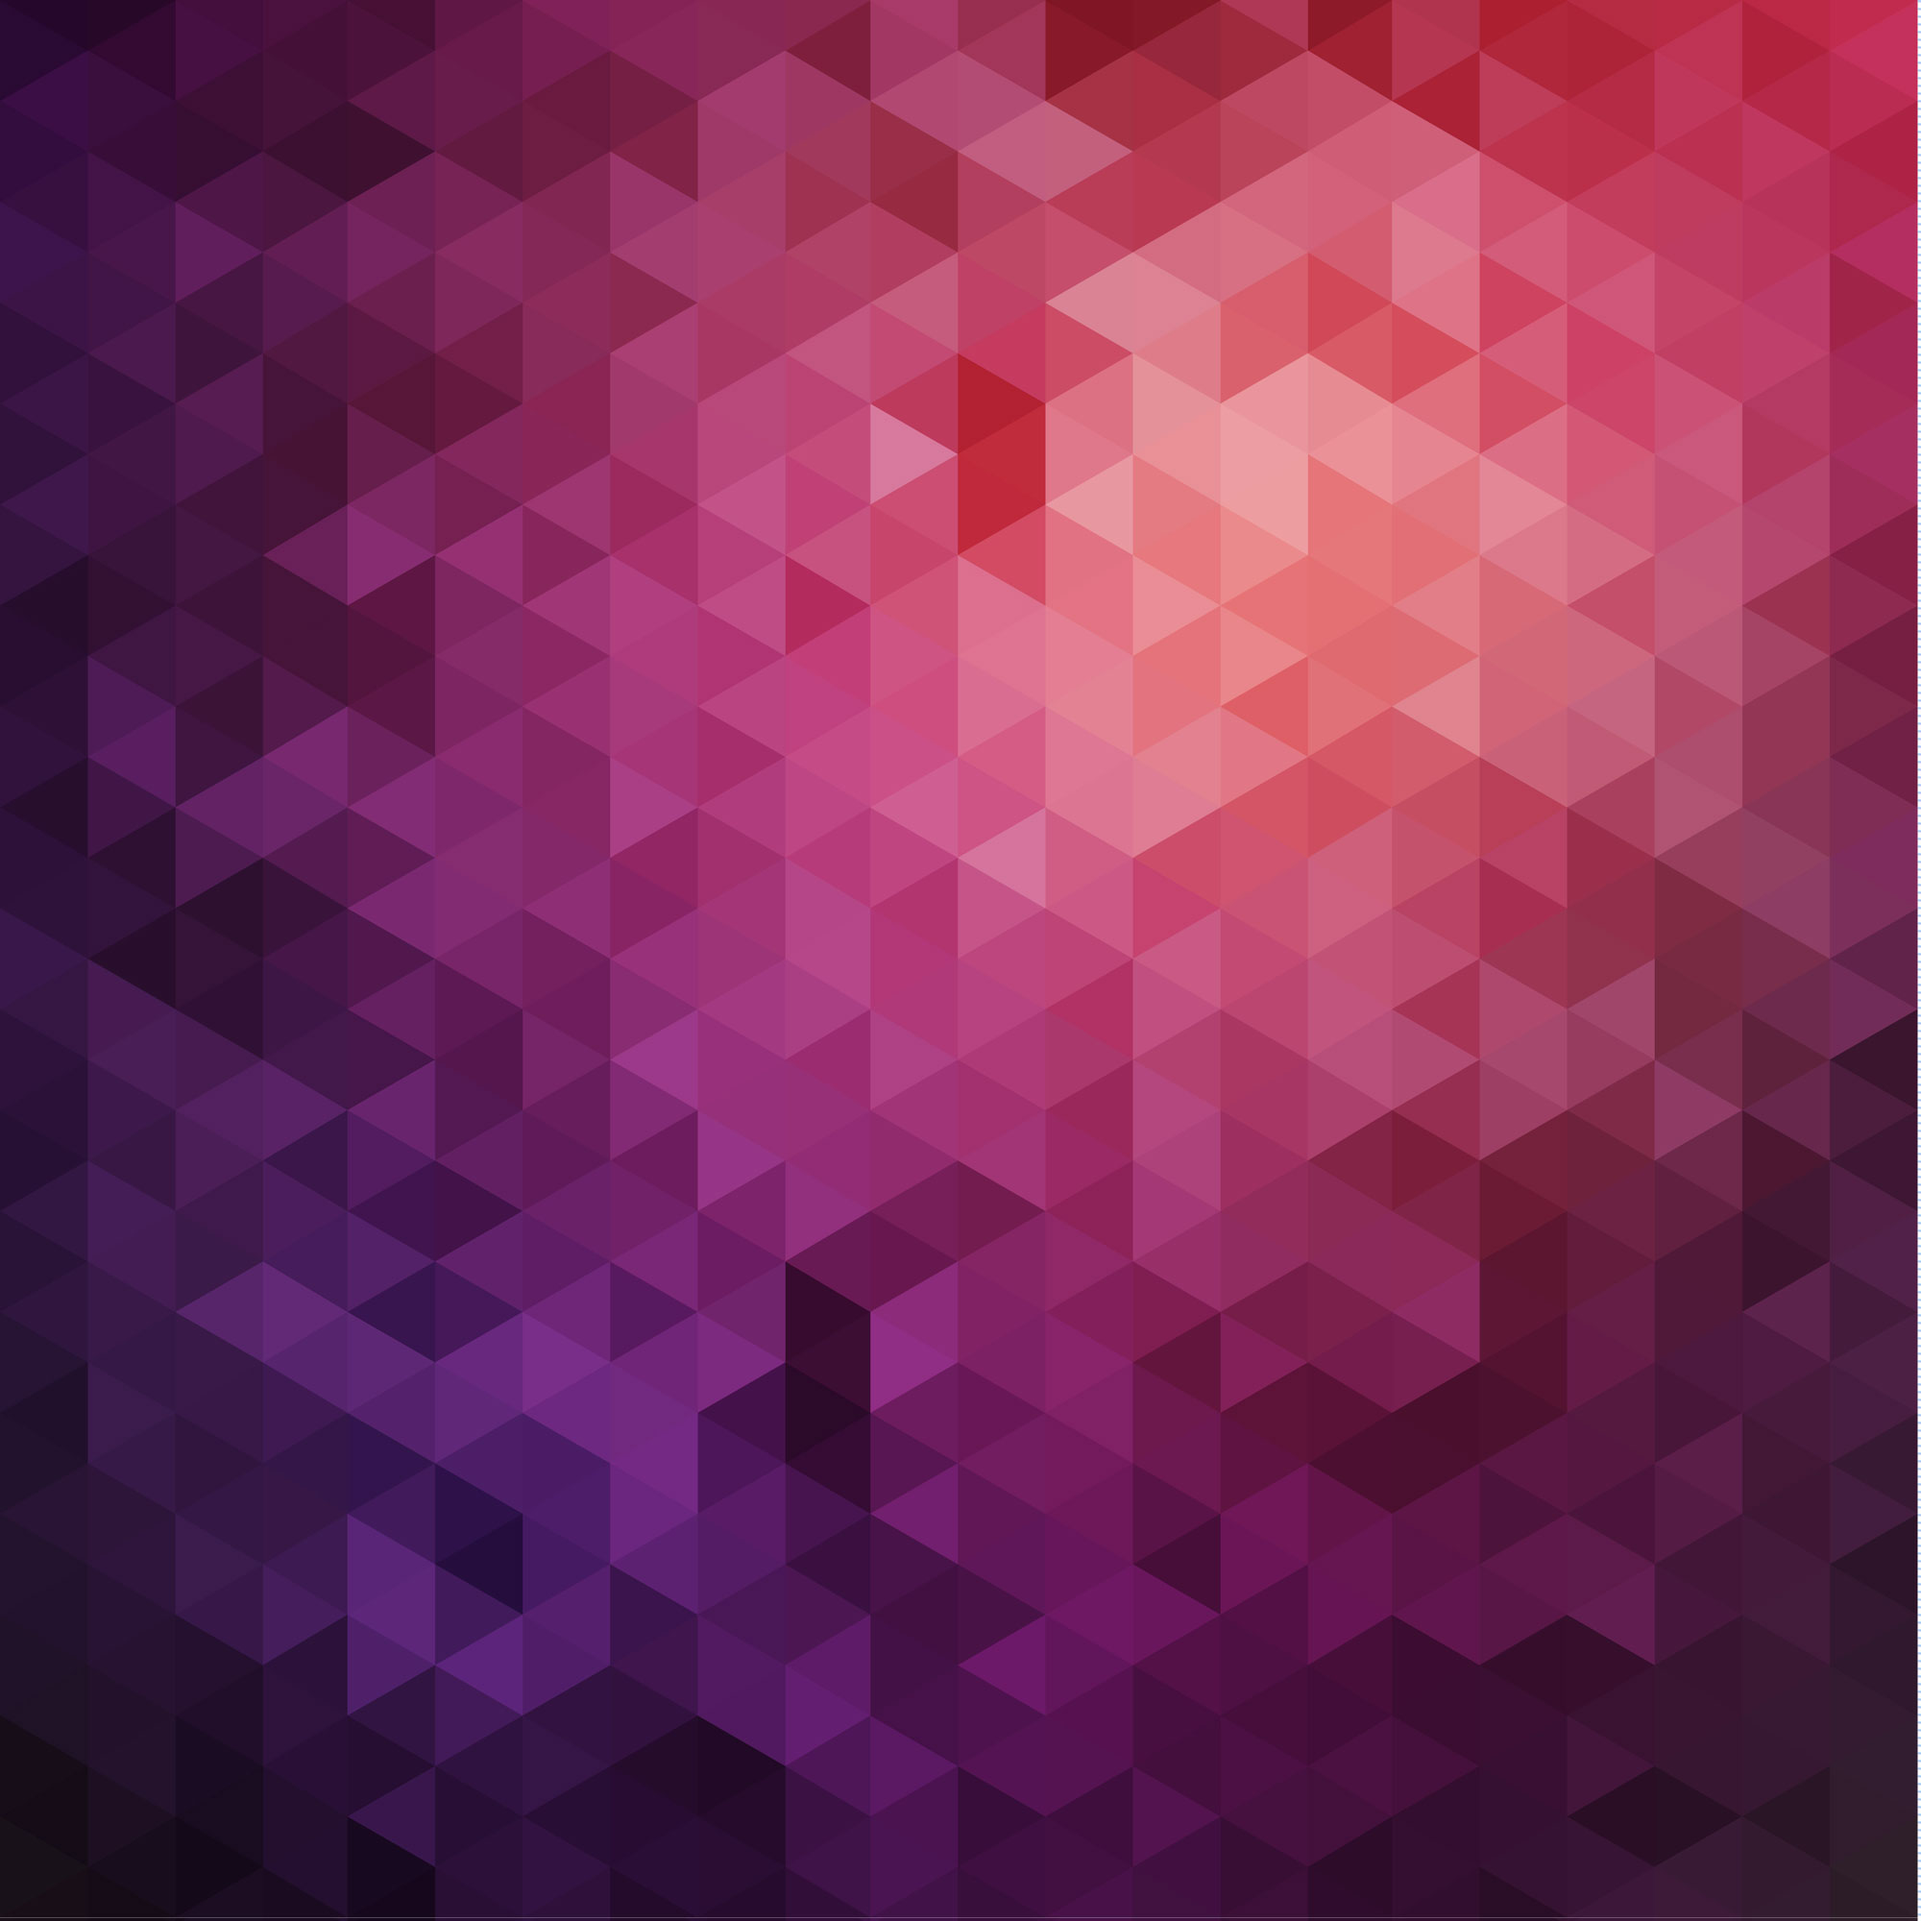
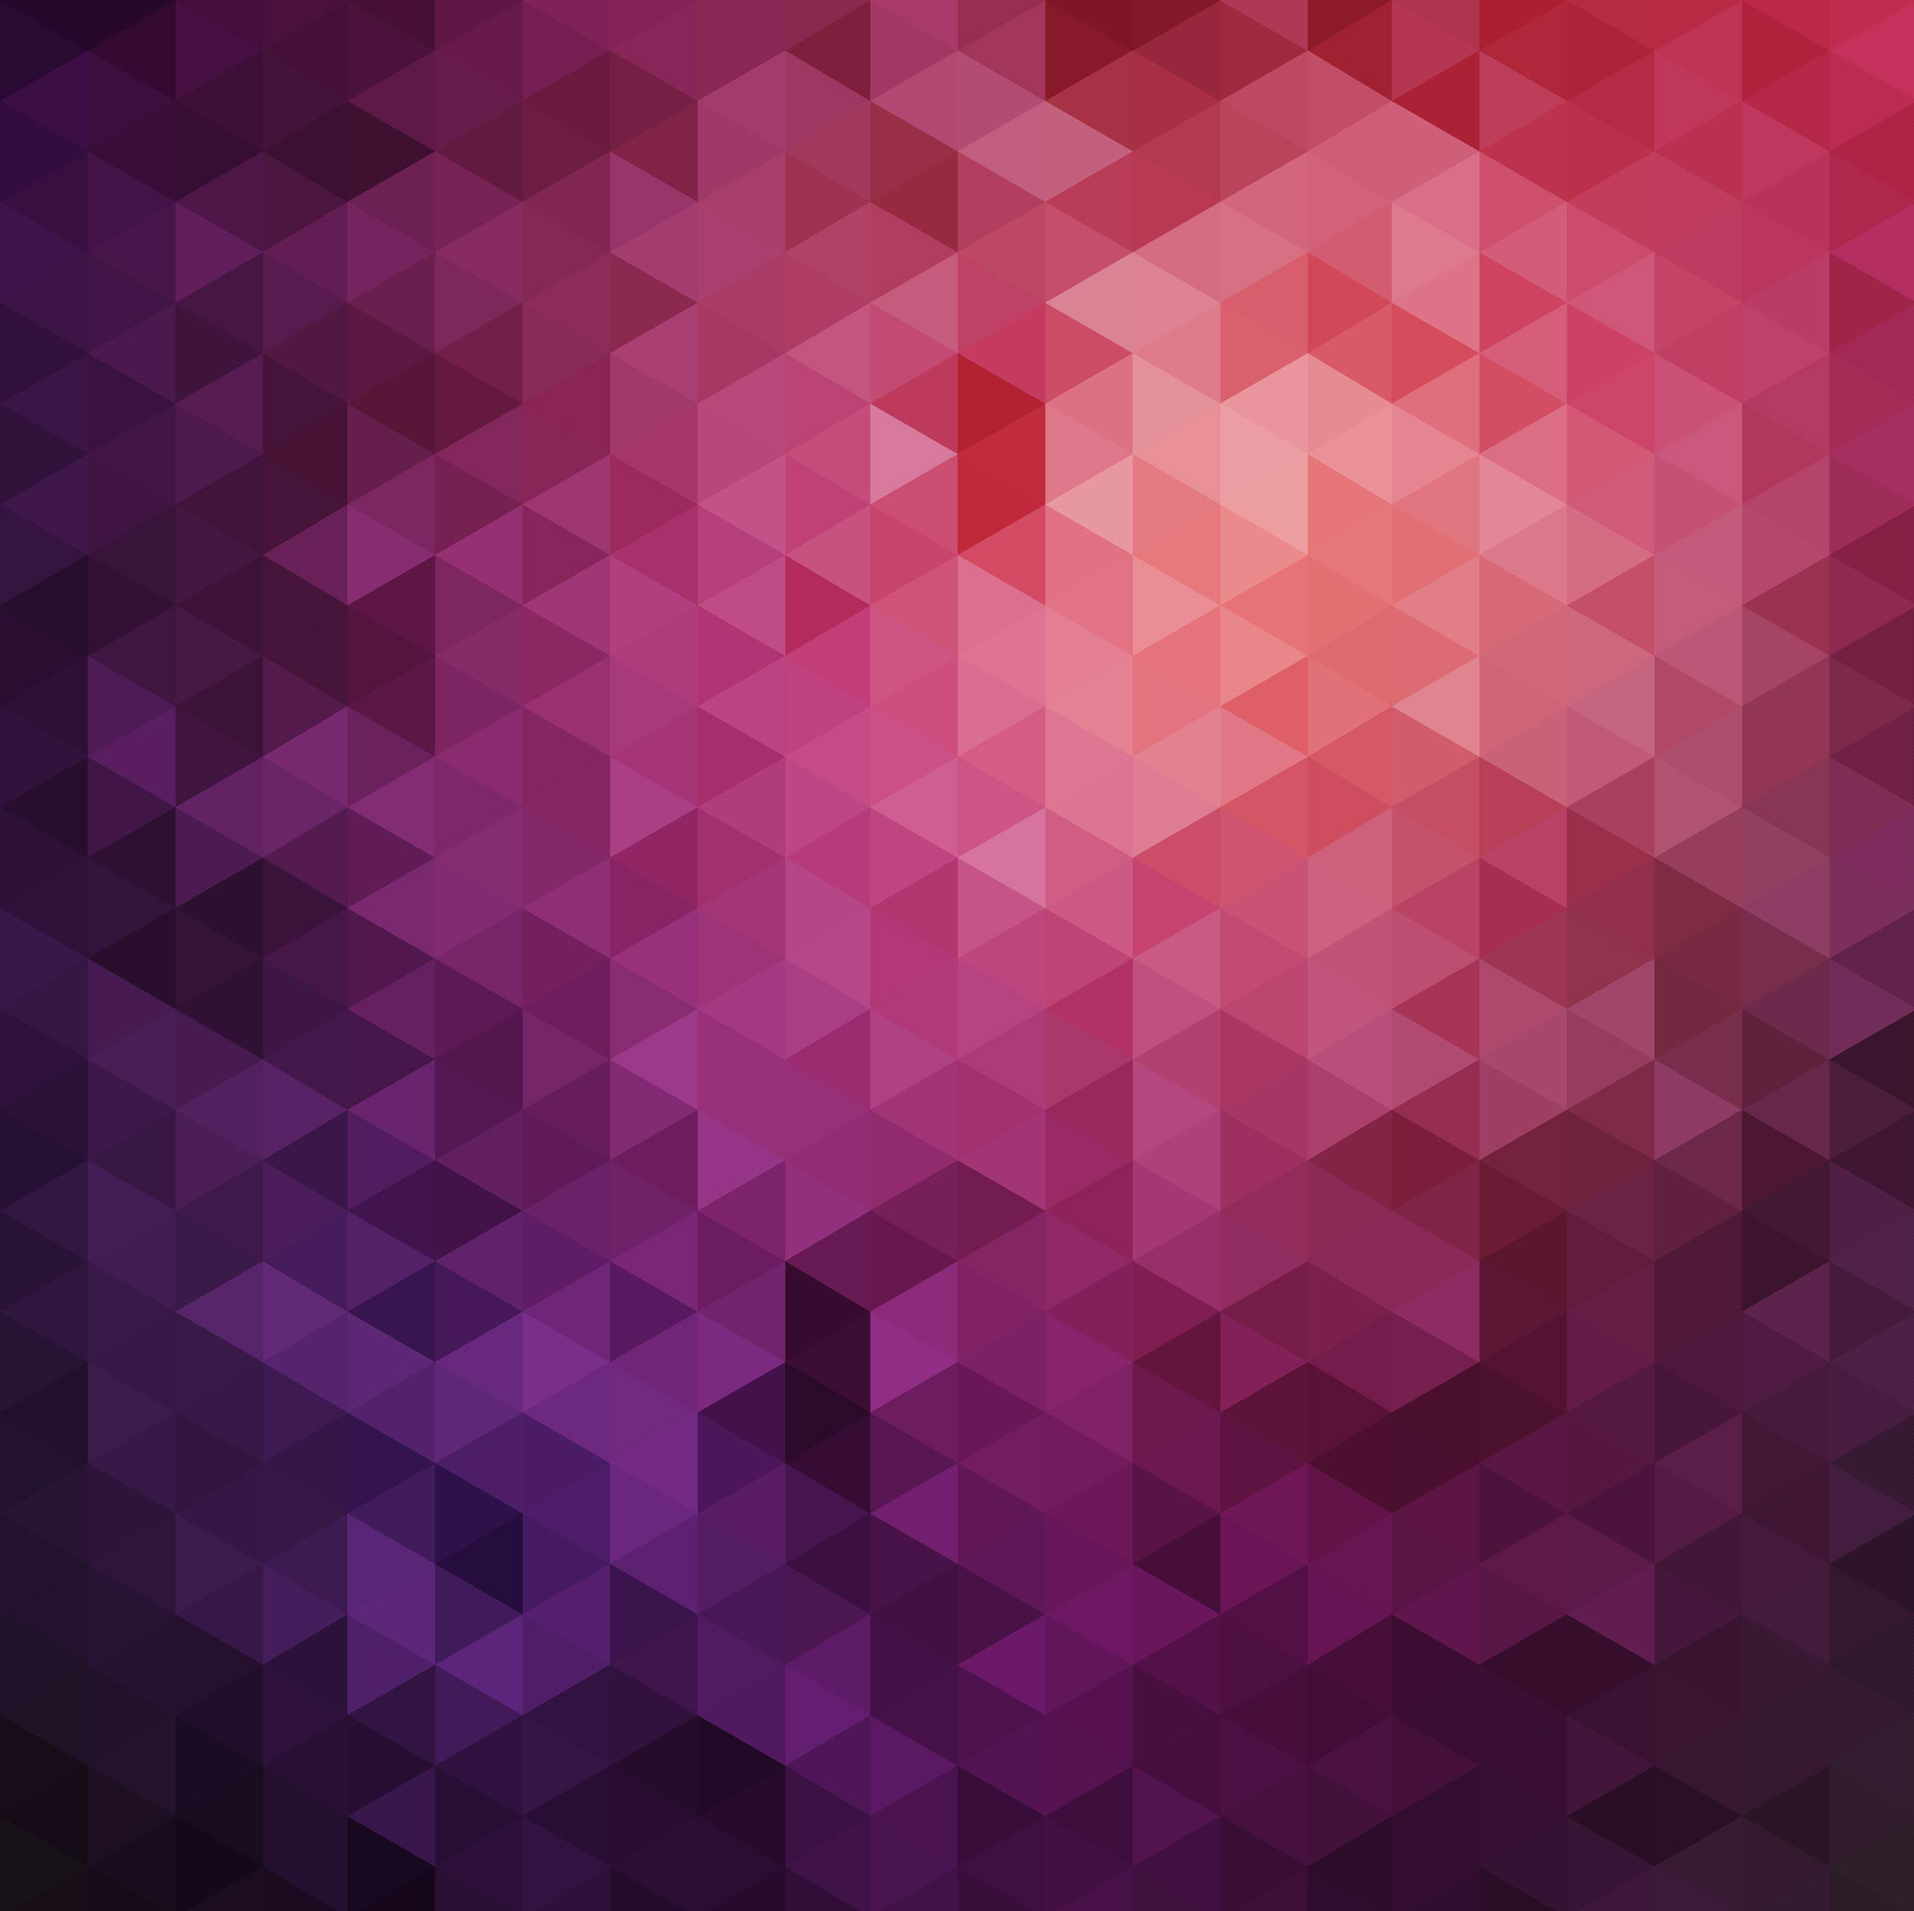
adding more images and styling

diff --git a/styles/main.css b/styles/main.css
@@ -12,14 +12,17 @@ section.login {
 }
 
 section.fotd, section.showall {
-  background: url(../images/triangles2000.jpg) center center fixed;
+  background: url(../images/triangles2001.jpg) center center fixed;
   background-repeat: repeat-y;
   -webkit-background-size: cover;
   -moz-background-size: cover;
   -o-background-size: cover;
   background-size: cover;
-  height: 400%;
-  
+  min-height: 1080px;
+  width: 100%;
+  position: absolute;
+
+
 }
 
 .grey-background {
@@ -34,9 +37,12 @@ section.fotd, section.showall {
   position:relative;
 }
 .webcamContainer::after {
-  content: "OR";
+  content: "";
+  background: url("../images/OR.png");
+  width: 75px;
+  height: 44px;
   position: absolute;
-  right: -24px;
+  right: -34px;
   top: 100px;
   font-size: 36px;
 }
@@ -76,7 +82,7 @@ label {
 }
 
 
-nav.top-bar {
+nav {
   background-color: #29252B;
   color: #d9d628;
   height: 78px;
@@ -84,7 +90,6 @@ nav.top-bar {
   width: 100%;
   top: 0;
   z-index: 9999;
-  /*margin-bottom: 100px*/
 }
 
 .logo {
@@ -109,11 +114,8 @@ label {
 }
 .tagline {
   color: #F9F5E8;
-  font-family: "Lato", "Helvetica Neue", Helvetica, Arial, sans-serif;
-  font-weight: 300;
-  font-style: italic;
-  font-size: 20px;
-  margin: 30px 0 0 25px;
+  height: 45px;
+  /*margin: 30px 0 0 25px;*/
 
 }
 .button {
@@ -124,15 +126,21 @@ label {
 
 }
 
-.top-bar .logout {
+nav .button {
   color: #D9D64A;
   padding: 10px;
-  display: inline;
+  display: inline-block;
   border-radius: 3px;
-  margin-top: -5px;
+  margin-top: 20px;
   margin-right: 8px;
 }
 
+.f-dropdown li a {
+  text-align: left;
+}
+.nav-buttons {
+  text-align: right;
+}
 
 .upload-img-preview {
   max-width: 320px;
@@ -288,8 +296,12 @@ p {
 }
 
 /* ---------- LOGIN ---------- */
+
+#login form img {
+  margin-left: 25px;
+}
 #login {
-  width: 280px;
+  margin-top: 95px;
 }
 
 #login form span {

diff --git a/index.html b/index.html
@@ -16,29 +16,21 @@
 
 </head>
 <body>
-  <nav class="top-bar" data-topbar role="navigation" >
+  <nav data-topbar role="navigation" >
     <div class="row">
 
-      <div class="small-1  columns large-offset-1 ">
+      <div class="small-6 columns">
         <img class="logo" src="../images/FOTD-green.png">
+        <img ng-src="../images/fotd-tagline.png" class="tagline">
       </div>
-      <div class="small-4 hide-for-small columns">
-        <h3 class="tagline">Face of the Day</h3>
-      </div>
-      <div class="small-4 columns">
-
+      <div class="small-6 columns nav-buttons">
         <a href="/#/logout" class="button logout" ng-show="user">Logout</a>
-
-
-
-
-        <a ng-show="user" data-dropdown="drop" class="button  logout">
+        <a ng-show="user" data-dropdown="drop" class="button">
           <i class="fa fa-bars"></i></a>
         <ul id="drop" data-dropdown-content class="f-dropdown">
           <li><a href="/#/makeup">Take FOTD</a></li>
           <li><a href="/#/showFOTDs">Show All FOTDs</a></li>
         </ul>
-
 
       </div>
 

diff --git a/views/showEdit.html b/views/showEdit.html
@@ -1,19 +1,19 @@
 <section>
   <img src="{{makeup.fotdImage[0]}}">
 
-  <div ng-repeat="(makeupId, makeup) in makeupListCtrl.makeup">
-    <p>
-      {{makeup.products.brand}}
-    </p>
-    <p>
-      {{makeup.products.color}}
-    </p>
-    <p>
-      {{makeup.products.productName}}
-    </p>
-    <p>
-      {{makeup.products.date}}
-    </p>
+  <ul ng-repeat="(makeupId, makeup) in makeupListCtrl.makeup">
+    <li>
+      {{makeup.products.product01.brand}}
+    </li>
+    <li>
+      {{makeup.products.product01.color}}
+    </li>
+    <li>
+      {{makeup.products.product01.productName}}
+    </li>
+    <li>
+      {{makeup.products.product01.date}}
+    </li>
 
-  </div>
+  </ul>
 </section>

diff --git a/views/login.html b/views/login.html
@@ -1,11 +1,11 @@
 
 <section class="login">
-  <div class="container ">
 
-    <div id="login">
+    <div id="login" class="row">
 
-      <form class="small-offset-11 small-4 columns" name="loginForm" ng-submit="loginCtrl.login()" novalidate>
+      <form class="small-offset-8 small-4 columns" name="loginForm" ng-submit="loginCtrl.login()" novalidate>
 
+        <img ng-src="../images/show-us-your-face.png"/>
         <fieldset class="clearfix">
 
           <p>

diff --git a/views/showAll.html b/views/showAll.html
@@ -5,7 +5,7 @@
 
       <div class="facedates" ng-repeat="(makeupId, makeup) in makeupListCtrl.makeup">
         <div class="faces">
-          <img src="{{makeup.fotdImage[0]}}">
+          <a href="/#/{{makeupId}}"><img src="{{makeup.fotdImage[0]}}"></a>
         </div>
         <div class="dates">
           <p class="date">{{makeup.date | date}}</p>

diff --git a/scripts/routes.js b/scripts/routes.js
@@ -19,7 +19,7 @@ angular.module("fotdApp")
     controllerAs: "makeupListCtrl",
     private: "true"
   })
-  .when("/showFOTD/:id", {
+  .when("/:id", {
     templateUrl: "views/showEdit.html",
     controller: "makeupListController",
     controllerAs: "makeupListCtrl",
